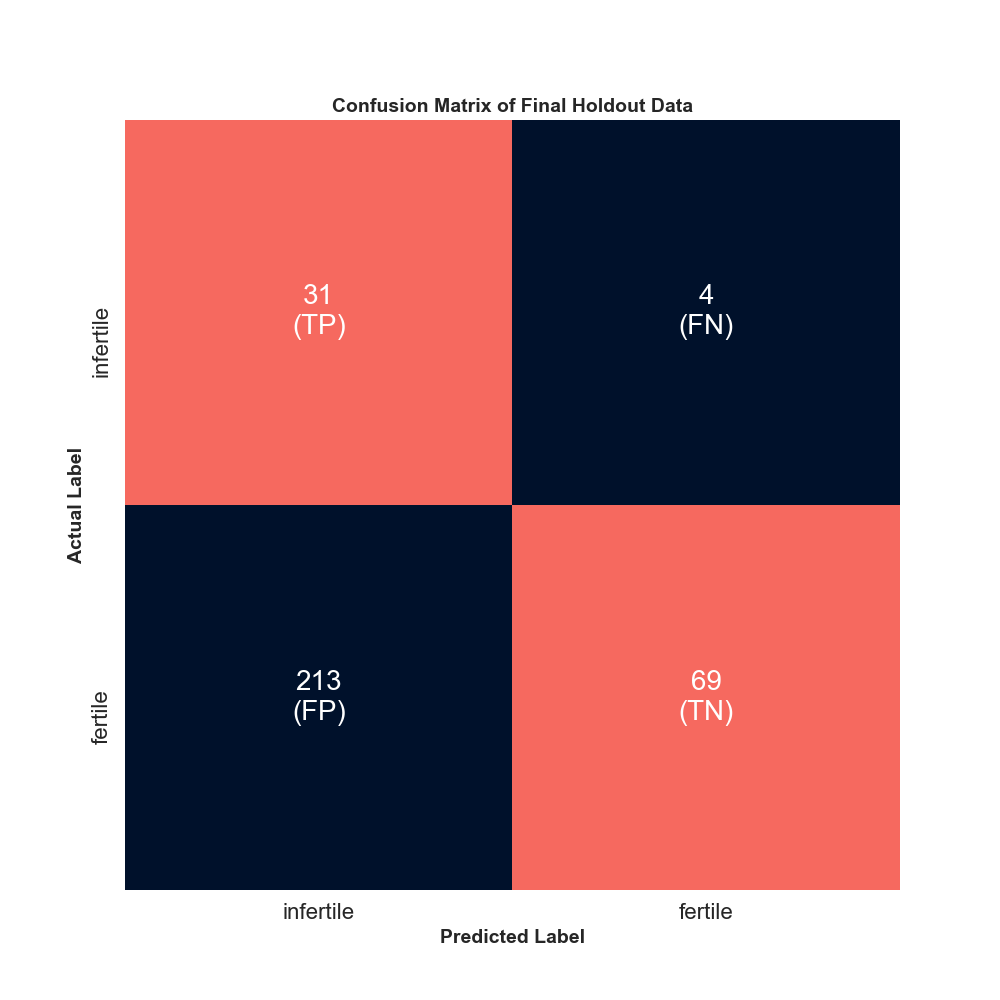
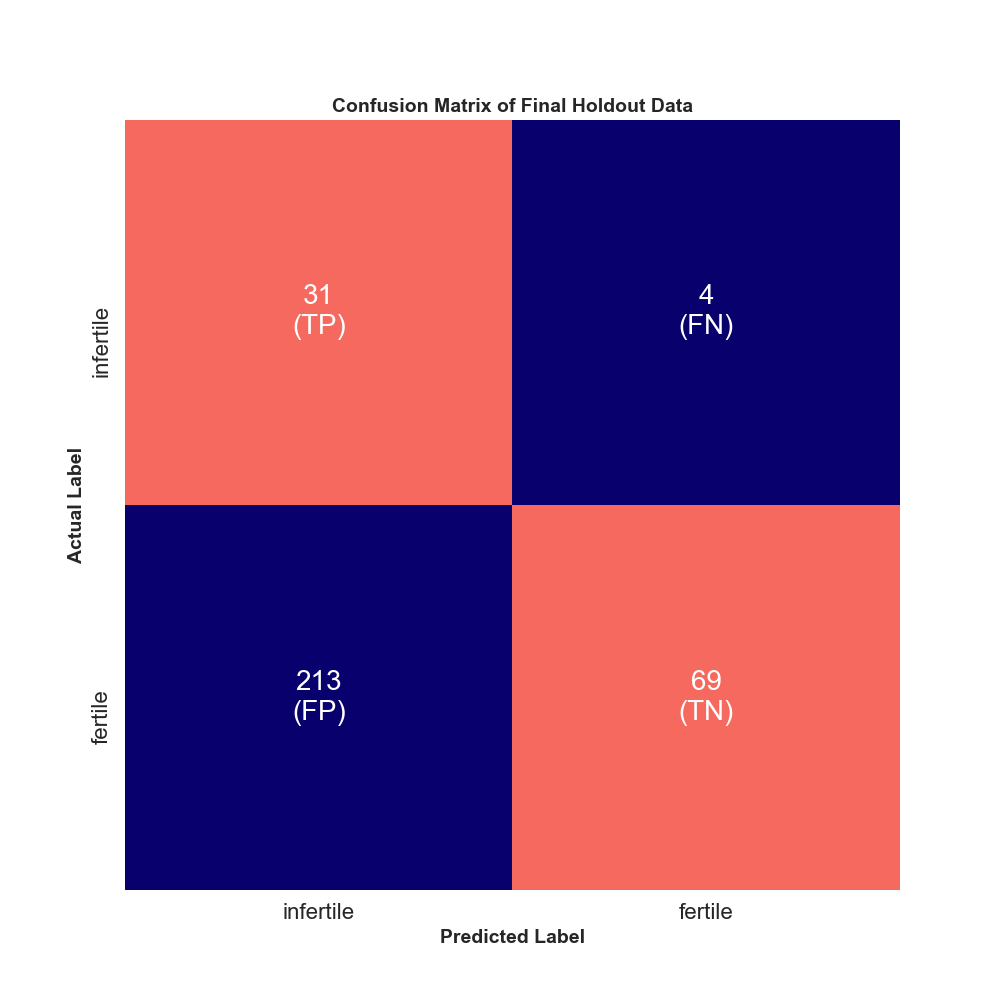
fixed colors

Changed region(s): [[0.124, 0.093, 0.899, 0.899]]

diff --git a/src/mk_figs.py b/src/mk_figs.py
@@ -77,7 +77,7 @@ def ROC_c(fpr, tpr, fpr1, tpr1, auc, auc1):
 
     plt.savefig('../images/ROC_holdout.png')
 
-colors = ['#00112b','#f6695f','#f6695f','#f6695f','#f6695f','#f6695f','#f6695f','#f6695f','#00112b']
+colors = ['#08006d','#f6695f','#f6695f','#f6695f','#f6695f','#f6695f','#f6695f','#f6695f','#08006d']
 
 boundaries = [0.0, 0.3,0.7, 1.0]  # custom boundaries
 
